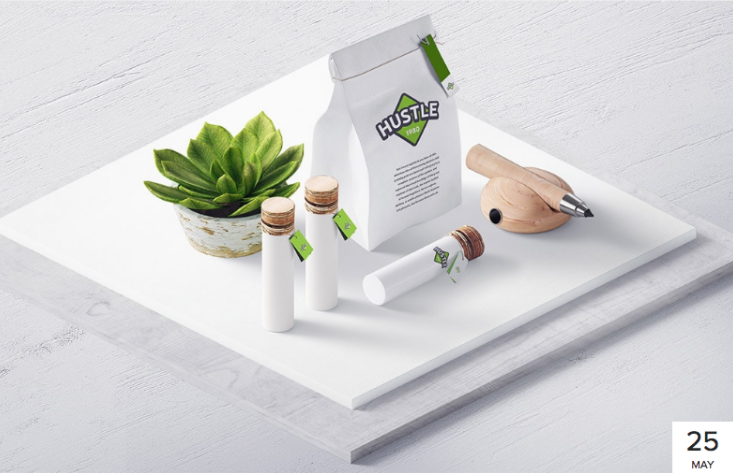
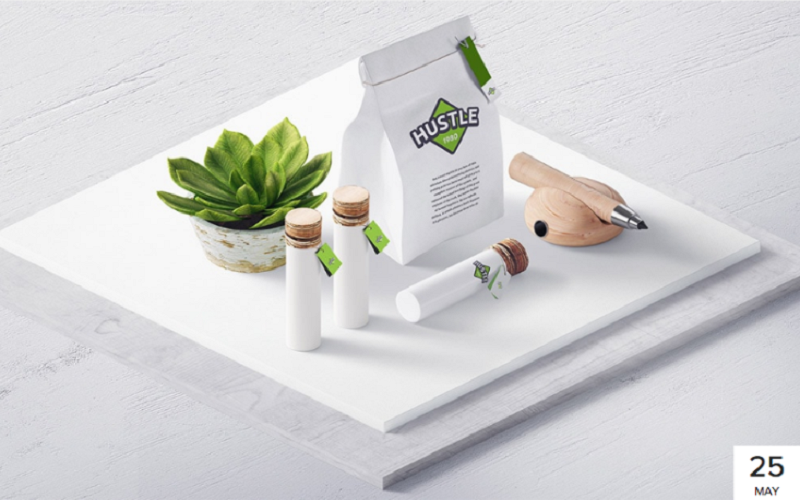
cap nhat2

Changed region(s): [[0.9304, 0.9175, 0.9905, 1.0], [0.5102, 0.2072, 0.6003, 0.296], [0.2101, 0.296, 0.2401, 0.3256]]

diff --git a/index.html b/index.html
@@ -103,16 +103,14 @@
         <div class="row" style="padding-top: 50px">
             <div class="sidebar_left  col-12 col-sm-12 col-md-12 col-lg-9 pt-0">
                 <div class="row">
-                    <div class="row post_img position_r">
-                        <div class="row img">
+                    <div class="col-12 post_img position_r p-0">
                             <img src="img/post1.PNG">
-                        </div>
-                        <div class=" row time position_a ">
+                        <div class="time position_a ">
                             <p class="ftsz25 text-center m-0">25</p>
                             <p class="ftsz12 text-center m-0">MAY</p>
                         </div>
                     </div>
-                    <div class="row post_content">
+                    <div class="col-12 post_content">
                         <div class="col-12 col-sm-12 col-md-12 col-lg-4 pl-5 ">
                             <ul>
                                 <li class="font-weight-bold">POSTED BY</li>
@@ -147,16 +145,14 @@
 
                 </div>
                 <div class="row pt-5 pb-4">
-                    <div class="row post_img position_r">
-                        <div class="row img">
-                            <img src="img/post2.PNG">
-                        </div>
-                        <div class=" row time position_a">
-                            <p class="ftsz25 text-center">13</p>
-                            <p class="ftsz12 text-center">MAY</p>
+                    <div class="col-12 post_img position_r p-0">
+                        <img src="img/post2.PNG">
+                        <div class="time position_a ">
+                            <p class="ftsz25 text-center m-0">13</p>
+                            <p class="ftsz12 text-center m-0">MAY</p>
                         </div>
                     </div>
-                    <div class="row post_content">
+                    <div class="col-12 post_content">
                         <div class=" col-12 col-sm-12 col-md-12 col-lg-4 pl-5">
                             <ul>
                                 <li class="font-weight-bold">POSTED BY</li>
@@ -202,7 +198,7 @@
                     </ul>
                 </div>
             </div>
-            <div class="sidebar_right col-12 col-sm-12 col-md-12 col-lg-3 colpd">
+            <div class="sidebar_right col-12 col-sm-12 col-md-12 col-lg-3 ">
                 <div class="row d-inline-block">
                     <p class="sidebar_title pb-3 font-weight-bold">CATEGORIES</p>
                     <nav class="nav flex-column menu_categories">

diff --git a/css/style.css b/css/style.css
@@ -71,7 +71,7 @@ a i, a, span{
     color: #1abc9c;
 }
 .menu_categories a:hover {
-    color: red;
+    color: #1abc9c;
 }
 .menu_pplt li.active a, .sidebar_title {
     color: #5e5e5e;
@@ -93,9 +93,9 @@ a i, a, span{
     height: 35px;
 }
 
-.sidebar_left {
-    padding-right: 40px;
-    padding-left: 0;
+.sidebar_right {
+    padding-right: 0;
+    padding-left: 40px;
 }
 
 .title_blog {
@@ -179,9 +179,7 @@ a i, a, span{
 .pagination li.active a {
     color: black;
 }
-.pagination li:hover,.pagination .active:hover {
-    background: red;
-}
+
 .pagination li.active {
     background: white !important;
 }
@@ -234,10 +232,10 @@ a i, a, span{
     color: lightgrey;
 }
 .icon:hover{
-    color: red;
+    color: #1abc9c;
 }
 .nav-link:hover{
-    background:#1abc9c;
+    color: #1abc9c;
 }
 .comment {
     color: lightgrey;
